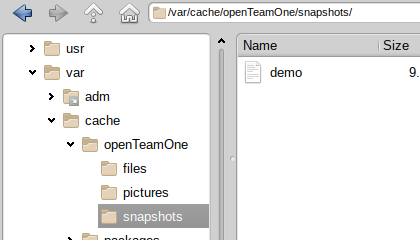
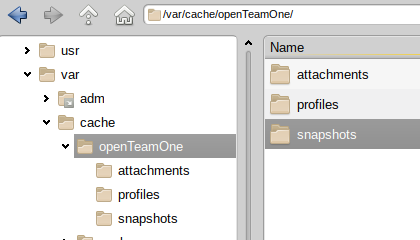
make file location explicit

diff --git a/src/main/java/com/opencommunity/openTeamOneServer/MessagingApi.java b/src/main/java/com/opencommunity/openTeamOneServer/MessagingApi.java
@@ -255,7 +255,7 @@ public class MessagingApi {
 			return Util.httpStringResponse(HttpStatus.FORBIDDEN);
 		//
 		long now = System.currentTimeMillis();
-		File directory = Util.getDataDirectory(tenantParameterRepository, "files");
+		File directory = Util.getDataDirectory(tenantParameterRepository, SymbolicFile.DIRECTORY_ATTACHMENTS);
 		if (directory == null)
 			return Util.httpStringResponse(HttpStatus.INTERNAL_SERVER_ERROR);
 		// scan message part
@@ -284,8 +284,9 @@ public class MessagingApi {
 		ArrayList<SymbolicFile> symbolicFiles = null;
 		if (protoMessage.protoSymbolicFiles != null) {
 			symbolicFiles = new ArrayList<>();
+			int i = 0;
 			for (ProtoSymbolicFile protoSymbolicFile : protoMessage.protoSymbolicFiles)
-				symbolicFiles.add(new SymbolicFile(protoSymbolicFile.fileId, protoSymbolicFile.mimeType, protoSymbolicFile.text, protoMessage.messageId, protoSymbolicFile.position));
+				symbolicFiles.add(new SymbolicFile(protoSymbolicFile.fileId, protoSymbolicFile.mimeType, protoSymbolicFile.text, protoMessage.messageId, i++, SymbolicFile.DIRECTORY_ATTACHMENTS));
 		}
 		// save without lock by saving the dependent items first
 		symbolicFileRepository.save(symbolicFiles);
@@ -642,14 +643,13 @@ public class MessagingApi {
 		String clientId;
 		String text;
 		String mimeType;
-		public int position;
 
 		public ProtoSymbolicFile() {
 			fileId = Util.getUuid();
 		}
 	}
 
-	private ProtoSymbolicFile getProtoSymbolicFile(JSONObject item, int position) throws JSONException {
+	private ProtoSymbolicFile getProtoSymbolicFile(JSONObject item) throws JSONException {
 		if (item == null)
 			return null;
 		ProtoSymbolicFile protoSymbolicFile = new ProtoSymbolicFile();
@@ -657,7 +657,6 @@ public class MessagingApi {
 		if (protoSymbolicFile.clientId == null)
 			return null;
 		protoSymbolicFile.text = JsonUtil.getString(item, "text");
-		protoSymbolicFile.position = position;
 		return protoSymbolicFile;
 	}
 
@@ -688,7 +687,7 @@ public class MessagingApi {
 			protoMessage.protoSymbolicFiles = new ArrayList<>();
 			for (int i = 0; i < attachments.length(); i++) {
 				JSONObject attachmentContent = JsonUtil.getJSONObject(attachments.getJSONObject(i), "assetContent");
-				ProtoSymbolicFile protoSymbolicFile = getProtoSymbolicFile(attachmentContent, i);
+				ProtoSymbolicFile protoSymbolicFile = getProtoSymbolicFile(attachmentContent);
 				if (protoSymbolicFile == null)
 					return null;
 				protoMessage.protoSymbolicFiles.add(protoSymbolicFile);

diff --git a/src/main/java/com/opencommunity/openTeamOneServer/SymbolicFile.java b/src/main/java/com/opencommunity/openTeamOneServer/SymbolicFile.java
@@ -17,6 +17,9 @@ interface SymbolicFileRepository extends CrudRepository<SymbolicFile, String> {
 @Entity
 public class SymbolicFile {
 
+	public static final String DIRECTORY_ATTACHMENTS = "attachments";
+	public static final String DIRECTORY_PROFILES = "profiles";
+
 	@Id
 	public String fileId;
 	@Column
@@ -27,16 +30,19 @@ public class SymbolicFile {
 	public String referenceId;
 	@Column
 	public int position;
+	@Column
+	public String directory;
 
 	public SymbolicFile() {
 	}
 
-	public SymbolicFile(String fileId, String mimeType, String text, String referenceId, int position) {
+	public SymbolicFile(String fileId, String mimeType, String text, String referenceId, int position, String directory) {
 		this.fileId = fileId == null ? Util.getUuid() : fileId;
 		this.mimeType = mimeType;
 		this.text = text;
 		this.referenceId = referenceId;
 		this.position = position;
+		this.directory = directory;
 	}
 
 	public SymbolicFile(JSONObject item) throws JSONException {
@@ -45,6 +51,7 @@ public class SymbolicFile {
 		text = JsonUtil.getString(item, "text");
 		referenceId = JsonUtil.getString(item, "referenceId");
 		position = JsonUtil.getInt(item, "position", 0);
+		directory = JsonUtil.getString(item, "directory");
 		//
 		if (fileId == null || fileId.length() == 0)
 			fileId = Util.getUuid();
@@ -57,6 +64,7 @@ public class SymbolicFile {
 		item.put("text", text);
 		item.put("referenceId", referenceId);
 		item.put("position", position);
+		item.put("directory", directory);
 		return item;
 	}
 
@@ -114,6 +122,14 @@ public class SymbolicFile {
 
 	public void setPosition(int position) {
 		this.position = position;
+	}
+
+	public String getDirectory() {
+		return directory;
+	}
+
+	public void setDirectory(String directory) {
+		this.directory = directory;
 	}
 
 	@Override

diff --git a/src/main/java/com/opencommunity/openTeamOneServer/MediaApi.java b/src/main/java/com/opencommunity/openTeamOneServer/MediaApi.java
@@ -38,12 +38,12 @@ public class MediaApi {
 
 	@RequestMapping(method = RequestMethod.GET, value = "/picture/v1/service/rest/picture/{fileId}")
 	public ResponseEntity<Resource> picture(HttpServletRequest request, @PathVariable String fileId) throws Exception {
-		return sendFileContent(request, fileId, "pictures");
+		return sendFileContent(request, fileId);
 	}
 
 	@RequestMapping(method = RequestMethod.GET, value = "/media/v1/service/rest/media/file/{fileId}/content")
 	public ResponseEntity<Resource> mediaFileContent(HttpServletRequest request, @PathVariable String fileId) throws Exception {
-		return sendFileContent(request, fileId, "files");
+		return sendFileContent(request, fileId);
 	}
 
 	/* The following API calls are intentionally not implemented */
@@ -54,7 +54,7 @@ public class MediaApi {
 
 	/* helper functions */
 
-	public ResponseEntity<Resource> sendFileContent(HttpServletRequest request, String fileId, String subDirectory) throws Exception {
+	public ResponseEntity<Resource> sendFileContent(HttpServletRequest request, String fileId) throws Exception {
 		User user = Util.getSessionContact(request, userRepository);
 		if (user == null)
 			return Util.httpResourceResponse(HttpStatus.UNAUTHORIZED);
@@ -62,7 +62,7 @@ public class MediaApi {
 		SymbolicFile symbolicFile = symbolicFileRepository.findOne(fileId);
 		if (symbolicFile == null)
 			return Util.httpResourceResponse(HttpStatus.NOT_FOUND);
-		File directory = Util.getDataDirectory(tenantParameterRepository, subDirectory);
+		File directory = Util.getDataDirectory(tenantParameterRepository, symbolicFile.directory);
 		if (directory == null)
 			return Util.httpResourceResponse(HttpStatus.INTERNAL_SERVER_ERROR);
 		File file = new File(directory, fileId);

diff --git a/README.md b/README.md
@@ -30,7 +30,7 @@ Therefore, in order to bootstrap a demo server we need to provide a filesystem d
 
 In step 1 you need to designate a data directory for the server, or rather, for the tenant that this server instance represents. In this example the directory chosen is /var/cache/openTeamOne but you are free to choose any other directory.
 
-You copy the complete content of the project directory "demo" into the designated data directory. At the time of writing that would be the three subdirectories "files", "pictures" and "snapshots". The result should look like this:
+You copy the complete content of the project directory "demo" into the designated data directory. At the time of writing that would be the three subdirectories "attachments", "profiles" and "snapshots". The result should look like this:
 
 ![Preparation](docu/demo1.png)
 
